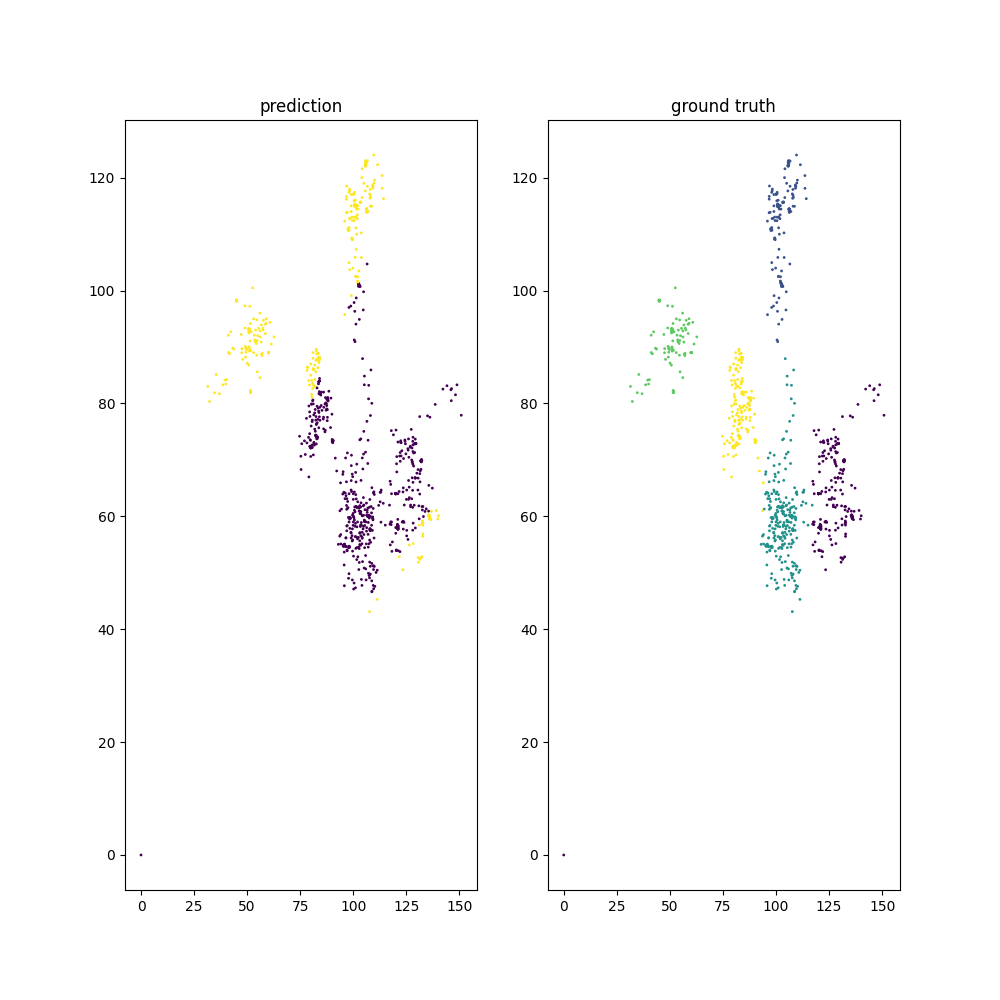
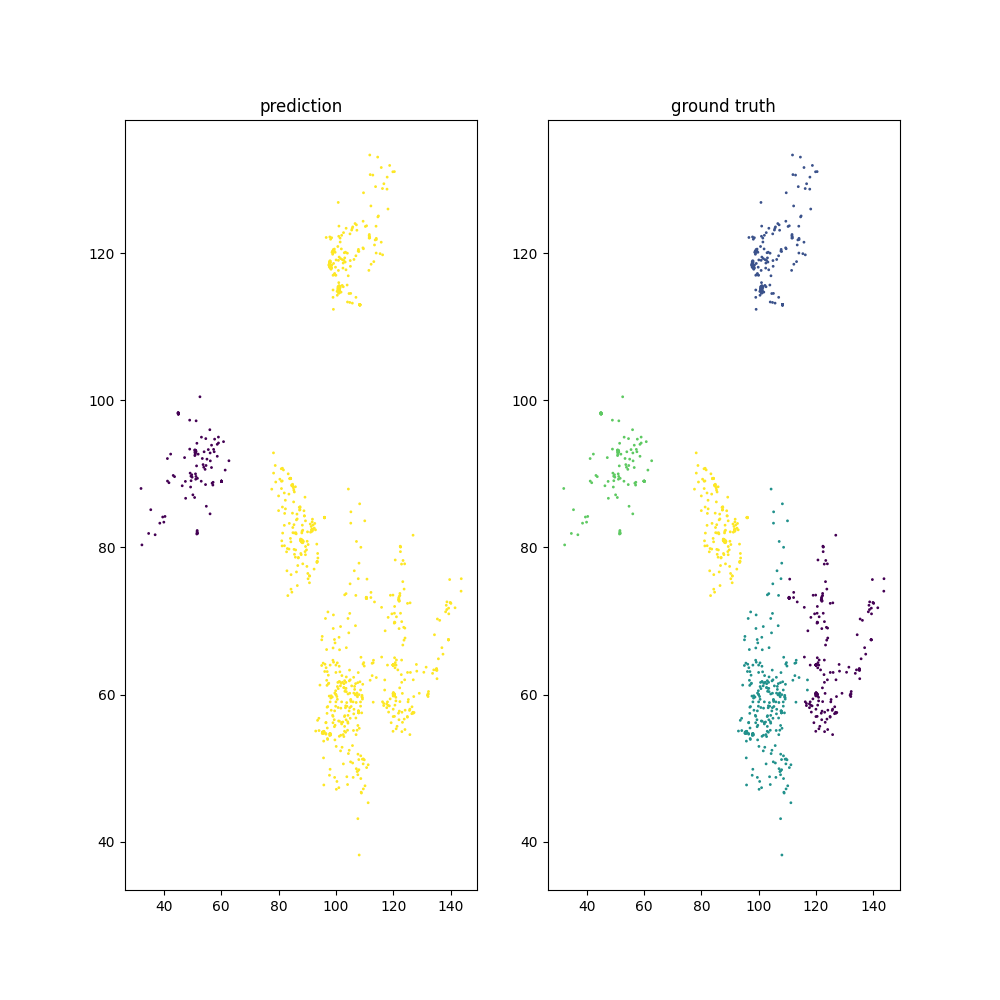
ELU for sigma to avoid grad explode

diff --git a/MARL Package/gst_mdn.py b/MARL Package/gst_mdn.py
@@ -211,21 +211,21 @@ class Fire(object):
 		return self.fire_map[:, 0], self.fire_map[:, 1], self.fire_map[:, 2], self.fire_map[:, 3]
 	
 
-class MDN_GP_Model_Spatiotemporal(gpytorch.models.ExactGP):
-	def __init__(self, x_train, y_train):
-		super(MDN_GP_Model_Spatiotemporal, self).__init__(x_train, y_train, gpytorch.likelihoods.GaussianLikelihood())
-		self.mean_module = gpytorch.means.ConstantMean()
-		self.covar_module = gpytorch.kernels.ScaleKernel(gpytorch.kernels.RBFKernel())
+# class MDN_GP_Model_Spatiotemporal(gpytorch.models.ExactGP):
+# 	def __init__(self, x_train, y_train):
+# 		super(MDN_GP_Model_Spatiotemporal, self).__init__(x_train, y_train, gpytorch.likelihoods.GaussianLikelihood())
+# 		self.mean_module = gpytorch.means.ConstantMean()
+# 		self.covar_module = gpytorch.kernels.ScaleKernel(gpytorch.kernels.RBFKernel())
 		
-	def forward(self, x):
-		mean_x = self.mean_module(x)
-		covar_x = self.covar_module(x)
-		return gpytorch.distributions.MultivariateNormal(mean_x, covar_x)
+# 	def forward(self, x):
+# 		mean_x = self.mean_module(x)
+# 		covar_x = self.covar_module(x)
+# 		return gpytorch.distributions.MultivariateNormal(mean_x, covar_x)
 
 import torch.nn.functional as F
 
 class MDN(nn.Module):
-	def __init__(self, n_hidden=100, n_gaussians=2):
+	def __init__(self, n_hidden=100, n_gaussians=5):
 		super(MDN, self).__init__()
 		self.neurons = n_hidden
 		self.components = n_gaussians
@@ -237,7 +237,7 @@ class MDN(nn.Module):
 		self.mus = nn.Linear(n_hidden, n_gaussians)
 		self.sigmas = nn.Linear(n_hidden, n_gaussians)
 
-		self.oneDivSqrtTwoPI = 1.0 / np.sqrt(2.0*np.pi)
+		self.ONEDIVSQRTTWOPI = 1.0 / np.sqrt(2.0*np.pi)
 	
 	def forward(self, inputs):
 		x = F.relu(self.h1(inputs))
@@ -245,22 +245,39 @@ class MDN(nn.Module):
 		
 		pi = torch.softmax(self.alphas(x), dim=1)
 		mu = self.mus(x)
-		sigma = torch.exp(self.sigmas(x))
 		
-		return pi, sigma, mu
-	
+		# use ELU for sigma
+		sigma = nn.ELU()(self.sigmas(x)) + 1 + 1e-15
+		
+		return pi, sigma, mu	
 	
 	def gaussian_distribution(self, y, mu, sigma):
 		# make |mu|=K copies of y, subtract mu, divide by sigma
-		result = (y.expand_as(mu) - mu) * torch.reciprocal(sigma)
-		result = -0.5 * (result * result)
-		return (torch.exp(result) * torch.reciprocal(sigma)) * self.oneDivSqrtTwoPI
+		y = y.expand_as(sigma)
+		res = (self.ONEDIVSQRTTWOPI/sigma) * torch.exp(-0.5 * (y-mu)**2 / sigma**2)
+
+		return res
 
 	def mdn_loss_fn(self, pi, sigma, mu, y):
-		result = self.gaussian_distribution(y, mu, sigma) * pi
-		result = torch.sum(result, dim=1)
-		result = -torch.log(result)
-		return torch.mean(result)
+		'''
+		use LogsumExp trick for numerical stability: https://en.wikipedia.org/wiki/LogSumExp
+		'''	
+		# sigma = torch.tensor(sigma)
+		# mu = torch.tensor(mu)
+		# pi = torch.tensor(pi)
+		result = -torch.log(sigma) - 0.5 * torch.log(2 * torch.tensor(np.pi)) - torch.pow(y - mu, 2) / (2 * torch.pow(sigma, 2))
+		result = torch.logsumexp(torch.log(pi) + result, dim=1)
+
+		# regularization
+		# mu_diff = mu.unsqueeze(2) - mu.unsqueeze(1)
+		# mu_dist = torch.norm(mu_diff, dim=1)
+		# loss_reg = torch.sum(torch.exp(-mu_dist / 0.1))
+		# alpha = 0.1
+		# loss = -torch.mean(result + alpha * loss_reg)
+
+		# return loss
+		
+		return -torch.mean(result)
 	
 	def train_mdn(self, x_variable, y_variable, optimizer):
 		for epoch in range(10001):
